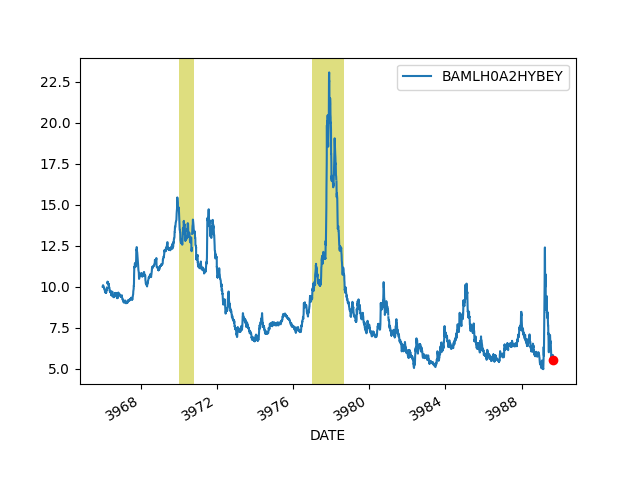
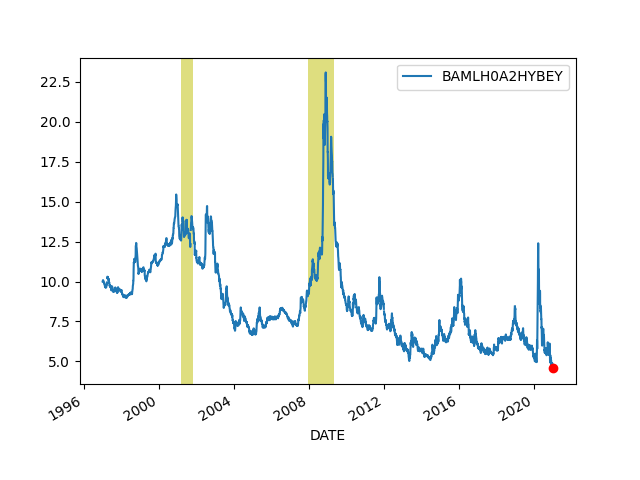
-

diff --git a/en/2019/05/stats.md b/en/2019/05/stats.md
@@ -552,20 +552,20 @@ df = data.DataReader(cols, 'fred', start, end)
 print (df.tail(6))
 df.plot()
 plt.plot(df.tail(1).index, df.tail(1),'ro')
-plt.axvspan('01-03-2001', '27-10-2001', color='y', alpha=0.5, lw=0)
-plt.axvspan('22-12-2007', '09-05-2009', color='y', alpha=0.5, lw=0)
+plt.axvspan('2001-03-03', '2001-10-27', color='y', alpha=0.5, lw=0)
+plt.axvspan('2007-12-22', '2009-05-09', color='y', alpha=0.5, lw=0)
 plt.savefig('junkbond.png')
 ```
 
 ```text
             BAMLH0A2HYBEY
 DATE                     
-2020-08-27           5.53
-2020-08-28           5.53
-2020-08-31           5.54
-2020-09-01           5.46
-2020-09-02           5.39
-2020-09-03           5.51
+2021-01-07           4.62
+2021-01-08           4.63
+2021-01-11           4.71
+2021-01-12           4.77
+2021-01-13           4.68
+2021-01-14           4.58
 ```
 
 ![](junkbond.png)
